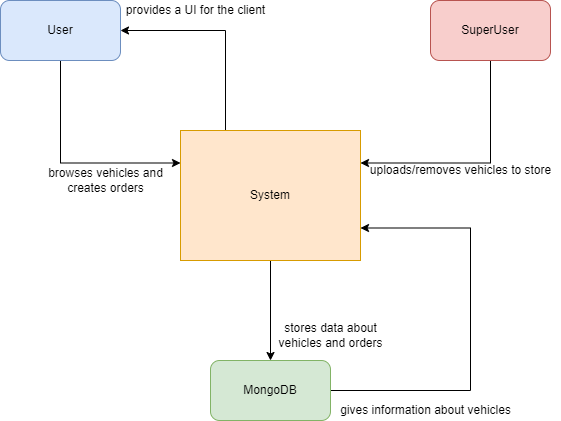
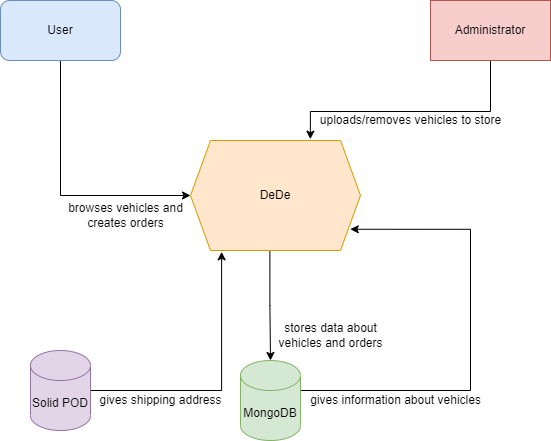
Updates

diff --git a/index.html b/index.html
@@ -831,6 +831,10 @@ conventions (e.g. programming or versioning guidelines, documentation or naming 
 <td class="tableblock halign-left valign-top"><p class="tableblock"><em>Sprints</em></p></td>
 <td class="tableblock halign-left valign-top"><p class="tableblock"><em>We have 4 deadlines or sprints in the course. We have some objectives to achieve in each of those sprints</em></p></td>
 </tr>
+<tr>
+<td class="tableblock halign-left valign-top"><p class="tableblock"><em>Meetings</em></p></td>
+<td class="tableblock halign-left valign-top"><p class="tableblock"><em>We are going to do at least 2 meetings per week, the duration of each, depends on the amount of things we have to speak or decide, and the work we need to do as a team</em></p></td>
+</tr>
 </tbody>
 </table>
 <div class="paragraph">
@@ -854,10 +858,6 @@ conventions (e.g. programming or versioning guidelines, documentation or naming 
 <tr>
 <td class="tableblock halign-left valign-top"><p class="tableblock"><em>Language</em></p></td>
 <td class="tableblock halign-left valign-top"><p class="tableblock"><em>We decided to write the documentation of the project in english because it&#8217;s a trade-off, its harder to us to do it, but its more professional</em></p></td>
-</tr>
-<tr>
-<td class="tableblock halign-left valign-top"><p class="tableblock"><em>Meetings</em></p></td>
-<td class="tableblock halign-left valign-top"><p class="tableblock"><em>We are going to do at least 2 meetings per week, the duration of each, depends on the amount of things we have to speak or decide, and the work we need to do as a team</em></p></td>
 </tr>
 </tbody>
 </table>
@@ -928,8 +928,17 @@ The title of the table is the name of your system, the three columns contain the
 <p>We have clients who want to buy used vehicles. The clients need to sign up in order to use the application. The vehicles are registered into the database by Administrator users. They can also remove said vehicles. Orders are used to link a buyer with the vehicle, or products that they are buying, and will be shipped to their home.</p>
 </div>
 <div class="paragraph">
+<p>We also have an administrator, or superuser, who will be able to add new products to the database, remove old ones.</p>
+</div>
+<div class="paragraph">
 <p>The data in exchange is simple. The client will be able to see information about the vehicle and products, they will be able to see a representative name, price and images. The store will need the clients' full name, billing address, age, username and a password to store their information. At least a payment mean will be needed for the client to be able to make purchases.
-The seller (the application, in this case), on the other hand, will receive the client&#8217;s billing address, so as to be able to ship the package, as well as their full name in order to recognize them.</p>
+The seller (the application, in this case), on the other hand, will receive the client&#8217;s billing address from his Solid POD, so as to be able to ship the package, as well as their full name in order to recognize them.</p>
+</div>
+<div class="paragraph">
+<p>The Solid POD allows us to receive information  from the client relevant to the store and its shipping methods.</p>
+</div>
+<div class="paragraph">
+<p>The database (MongoDB) stores information about past orders, current products (such as vehicles or accesories), and products that have been in stock on the past.</p>
 </div>
 <div class="imageblock">
 <div class="content">
@@ -1628,10 +1637,13 @@ on this list.
 <div class="title">Domain Concepts</div>
 <ul>
 <li>
+<p>User &lt;interface&gt;: interface that groups the generic behaviors of a user.</p>
+</li>
+<li>
 <p>SuperUser: user administrator of the application. It has special permissions such as adding or deleting products and viewing the list of all existing users in the database.</p>
 </li>
 <li>
-<p>User: standar user of the application. They store their data in PODs.</p>
+<p>StandardUser: standar user of the application. They store their data in PODs.</p>
 </li>
 <li>
 <p>POD: stores the data of each of the user.</p>
@@ -1657,10 +1669,10 @@ on this list.
 <div class="ulist">
 <ul>
 <li>
-<p>list of products</p>
+<p>products: list that contains all the existing products in the shopping cart.</p>
 </li>
 <li>
-<p>total price</p>
+<p>totalPrice: cumulative price of all products in the shopping cart.</p>
 </li>
 </ul>
 </div>
@@ -1670,10 +1682,10 @@ on this list.
 <div class="ulist">
 <ul>
 <li>
-<p>username: user account login name.</p>
+<p>username (foreign key): user account login name.</p>
 </li>
 <li>
-<p>code: product identification.</p>
+<p>code (foreign key): product identification.</p>
 </li>
 </ul>
 </div>
@@ -1819,7 +1831,7 @@ here in this central section or whether you better document it locally
 <p>Status: Accepted</p>
 </li>
 <li>
-<p>Context: the teachers have strongly recommended the use of this tool to facilitate the development of the code and deploy the application. Other tools like Heroku or Netlify can be used to deploy the app.</p>
+<p>Context: the teachers have strongly recommended the use of this tool to facilitate the development of the code and deploy the application. Other alternatives are PodMan, and Singularity, for example.</p>
 </li>
 <li>
 <p>Decision: Docker will be used as a tool to avoid certain repetitive and costly tasks, thus speeding up the development of the project.</p>
@@ -1836,7 +1848,7 @@ here in this central section or whether you better document it locally
 <p>Status: Proposed</p>
 </li>
 <li>
-<p>Context: software is needed to deploy the application once it is finished, and this allows it to be done through a direct link to the Github repository where the project is. In addition, it supports a large number of programming languages, including React and TypeScript, which will be used in the project. Other alternatives are Docker, mentioned above, and Netlify, for example.</p>
+<p>Context: software is needed to deploy the application once it is finished, and this allows it to be done through a direct link to the Github repository where the project is. In addition, it supports a large number of programming languages, including React and TypeScript, which will be used in the project. Other alternatives are Google App Engine, and Netlify, for example.</p>
 </li>
 <li>
 <p>Decision: by allowing the use of the Github repository to deploy the web application, its use is very practical.</p>
@@ -2096,7 +2108,7 @@ Created by Dr. Peter Hruschka &amp; Dr. Gernot Starke.</p>
 </div>
 <div id="footer">
 <div id="footer-text">
-Last updated 2022-02-19 11:51:10 +0100
+Last updated 2022-03-11 09:32:15 +0100
 </div>
 </div>
 </body>
